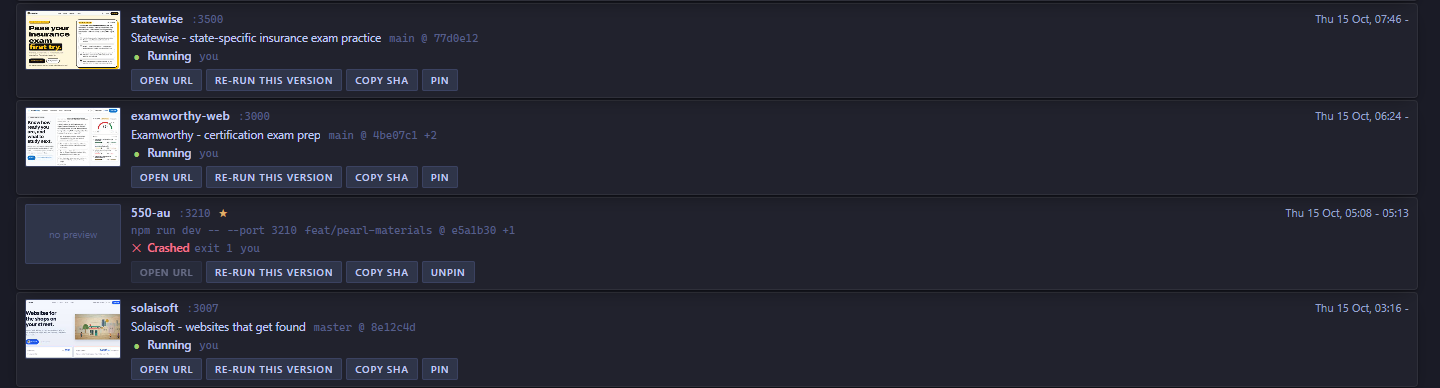
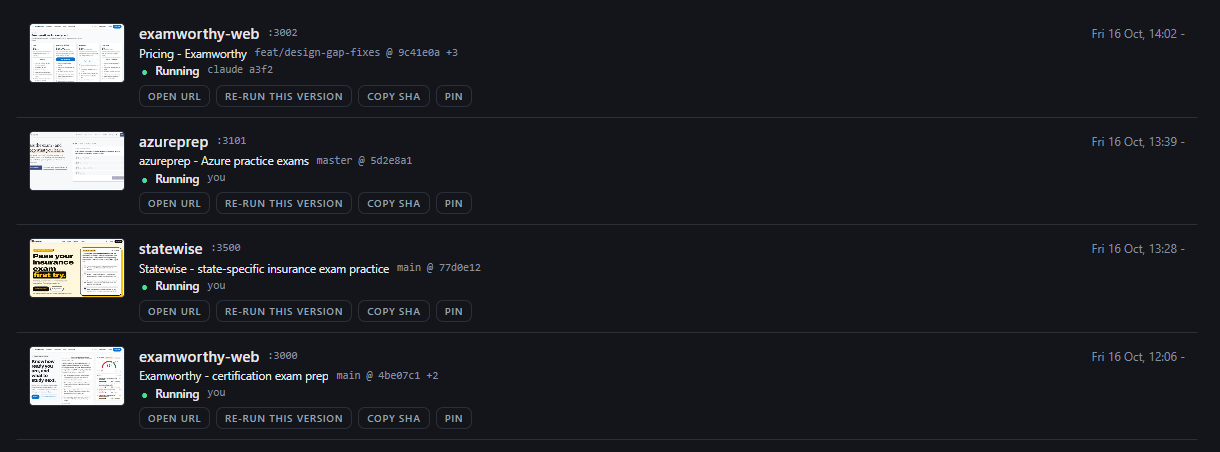
docs(ui): site crops and animated demos re-recorded on v4 (#127)

diff --git a/docs/index.html b/docs/index.html
@@ -180,21 +180,21 @@
             <h3>Run history</h3>
             <p>Every start, stop and crash is recorded locally, with the branch, commit and any uncommitted files. Search by app, branch or file, then re-run an old version in a sibling worktree. Claude can look a run up too, with the <code>find_run</code> tool.</p>
           </div>
-          <img src="screenshots/crop-history.png" class="crop zoomable" tabindex="0" width="1440" height="388" loading="lazy" alt="The History tab: runs of statewise, examworthy-web, 550-au (crashed) and solaisoft, each with a page thumbnail or a no-preview box, a state word, the branch and commit, and buttons Open URL, Re-run this version, Copy SHA and Pin">
+          <img src="screenshots/crop-history.png" class="crop zoomable" tabindex="0" width="1220" height="452" loading="lazy" alt="The History view: runs of examworthy-web, azureprep, statewise and examworthy-web again, each with a page thumbnail, a Running state word, the branch and commit, and buttons Open URL, Re-run this version, Copy SHA and Pin">
         </div>
         <div class="feature-row reveal">
           <div class="feature-copy">
             <h3>Row state, page preview, and who started it</h3>
             <p>Every app shows its state, how long it has been in it and who started it: you, or a Claude Code session. A running app also shows a small preview of its page, so the right server is easy to spot. A crashed app reads <code>&#10005; Crashed &middot; exit 1</code>. The VS Code tree uses the same states.</p>
           </div>
-          <div class="crop-scroll" tabindex="-1"><img src="screenshots/crop-row-state.png" class="crop zoomable" tabindex="0" width="779" height="114" loading="lazy" alt="Four app rows, the two running examworthy-web rows with a small page preview: examworthy-web running 2h started by you, a branch running 18m started by claude a3f2, another branch stopped, and statewise running 52m"></div>
+          <div class="crop-scroll" tabindex="-1"><img src="screenshots/crop-row-state.png" class="crop zoomable" tabindex="0" width="688" height="294" loading="lazy" alt="App rows: examworthy-web running 2h with a small page preview, an examworthy-web branch stopped, then alight and cosmos-collective each marked Port blocked with the process that holds the port"></div>
         </div>
         <div class="feature-row reveal">
           <div class="feature-copy">
             <h3>Conflict strip</h3>
             <p>When something else holds an app's port, the row says what holds it and offers Use free port, Kill &amp; start or Show process. Kill asks for a second click.</p>
           </div>
-          <div class="crop-scroll" tabindex="-1"><img src="screenshots/crop-conflict.png" class="crop zoomable" tabindex="0" width="779" height="75" loading="lazy" alt="alight row marked Port blocked: port 3007 is held by solaisoft, with buttons Use 3008 instead, Stop solaisoft and start, and Show process"></div>
+          <div class="crop-scroll" tabindex="-1"><img src="screenshots/crop-conflict.png" class="crop zoomable" tabindex="0" width="1022" height="80" loading="lazy" alt="alight in the needs-you strip: port 3007 is held by solaisoft, with buttons Use 3008 instead, Stop solaisoft and start, and Show process"></div>
         </div>
         <div class="feature-row reveal">
           <div class="feature-copy">

diff --git a/src/renderer/renderer.js b/src/renderer/renderer.js
@@ -2958,6 +2958,7 @@ window.killPort = killPort;
 window.copyPort = copyPort;
 window.copyCmdPath = copyCmdPath;
 window.startApp = startApp;
+window.showCrashToast = showCrashToast; // the demo recorder replays a crash
 window.stopApp = stopApp;
 window.openPortInBrowser = openPortInBrowser;
 window.openAppFolder = openAppFolder;
